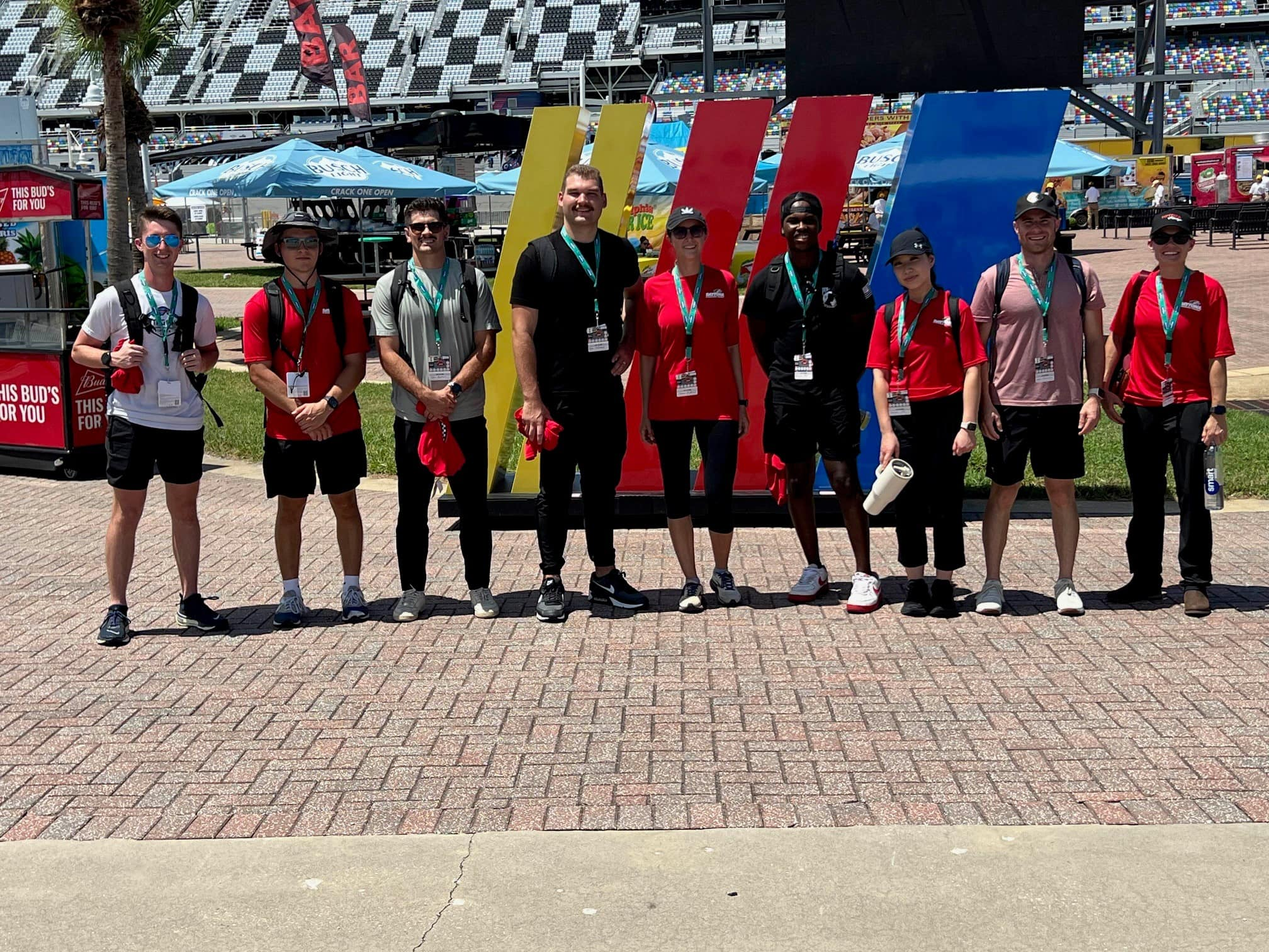
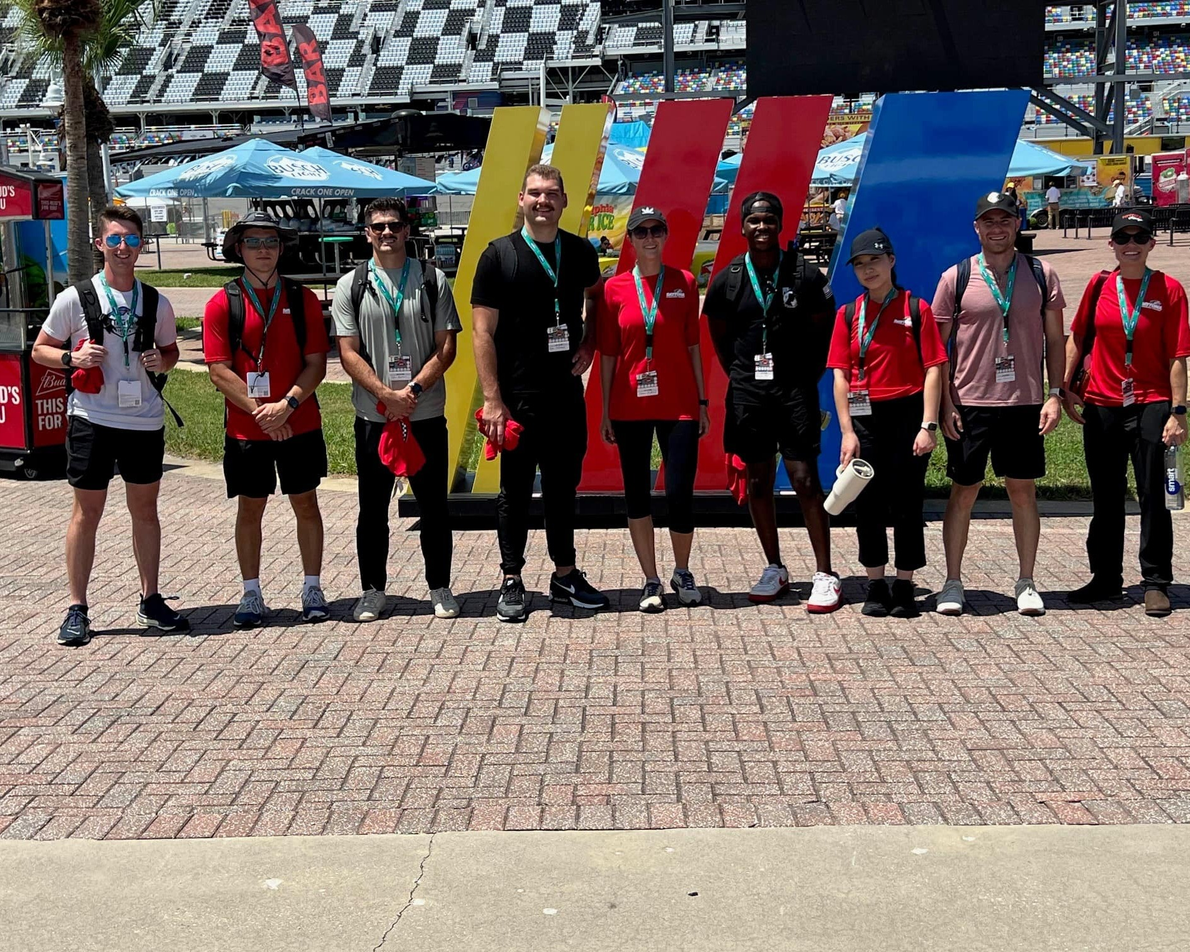
adjusted ratio to 5 by 4 for all photos.

diff --git a/pages/voting.html b/pages/voting.html
@@ -117,8 +117,7 @@
         <h1>Vote for Your Favorite Photo<span>.</span></h1>
         <hr />
         <p>
-          Select the photo you want on our front page. Your vote is stored persistently via Cloud Firestore 
-          and updates in real time.
+          Vote for the photo(s) that best represent the DAF CGOC. The top 12 will be selected to go on to the front page of the site at the end of the voting period.
         </p>
       </div>
     </div>
@@ -210,21 +209,21 @@
     // Define your photos (adjust IDs/URLs as needed)
     const photos = [
       { id: 'vote1', imageUrl: '../images/voting/BBQ.jpg' },
-      { id: 'vote2', imageUrl: '../images/voting/Col garcias PD.jpg' },
       { id: 'vote3', imageUrl: '../images/voting/community service.jpg' },
       { id: 'vote4', imageUrl: '../images/voting/Daytona Event.jpg' },
-      { id: 'vote5', imageUrl: '../images/voting/F-35 group photo.jpeg' },
-      { id: 'vote6', imageUrl: '../images/voting/fancy.jpeg' },
+      { id: 'vote5', imageUrl: '../images/voting/F-35 group photo.jpg' },
+      { id: 'vote6', imageUrl: '../images/voting/fancy.jpg' },
       { id: 'vote7', imageUrl: '../images/voting/fgo cgo speed mentor.jpg' },
-      { id: 'vote8', imageUrl: '../images/voting/Group photo.jpeg' },
+      { id: 'vote8', imageUrl: '../images/voting/Group photo.jpg' },
       { id: 'vote9', imageUrl: '../images/voting/History Class-panama city.jpg' },
-      { id: 'vote10', imageUrl: '../images/voting/In a ship.jpeg' },
+      { id: 'vote10', imageUrl: '../images/voting/In a ship.jpg' },
       { id: 'vote11', imageUrl: '../images/voting/JBER CGOC.jpg' },
       { id: 'vote12', imageUrl: '../images/voting/lenderman pd.jpg' },
       { id: 'vote13', imageUrl: '../images/voting/Lenderman Thank you.jpg' },
-      { id: 'vote14', imageUrl: '../images/voting/On a ship.jpeg' },
+      { id: 'vote14', imageUrl: '../images/voting/On a ship.jpg' },
       { id: 'vote15', imageUrl: '../images/voting/Q&A.jpg' },
       { id: 'vote16', imageUrl: '../images/voting/womens officer q&a.jpg' },
+      { id: 'vote2', imageUrl: '../images/voting/Col garcias PD.jpg' }
     ];
 
     const photoGrid = document.getElementById('photo-grid');
